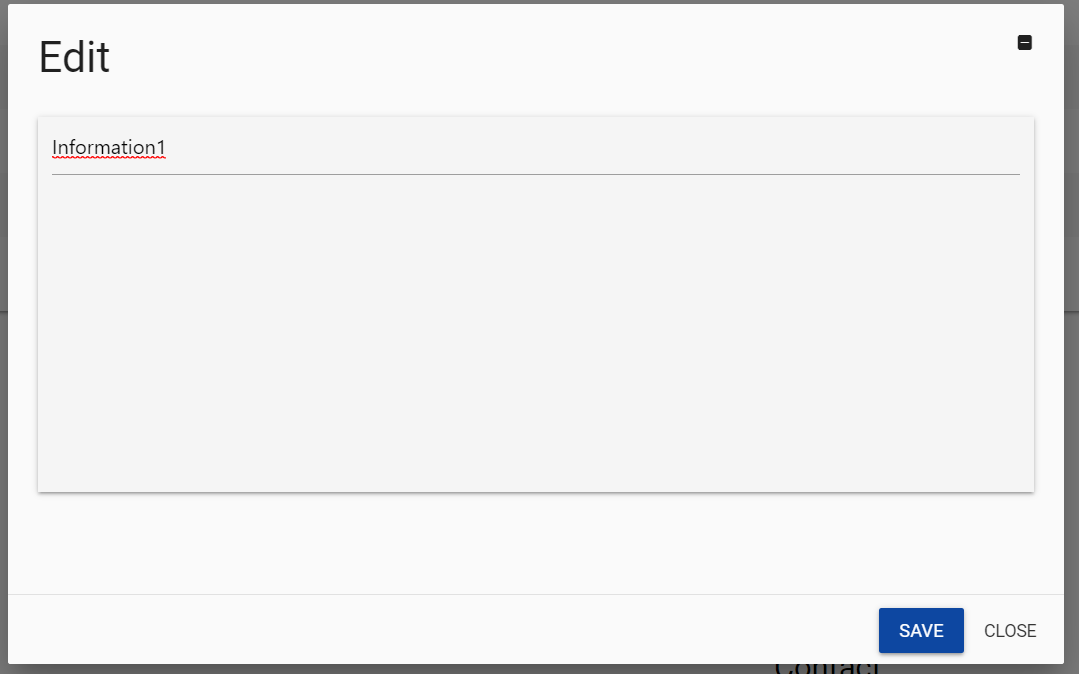
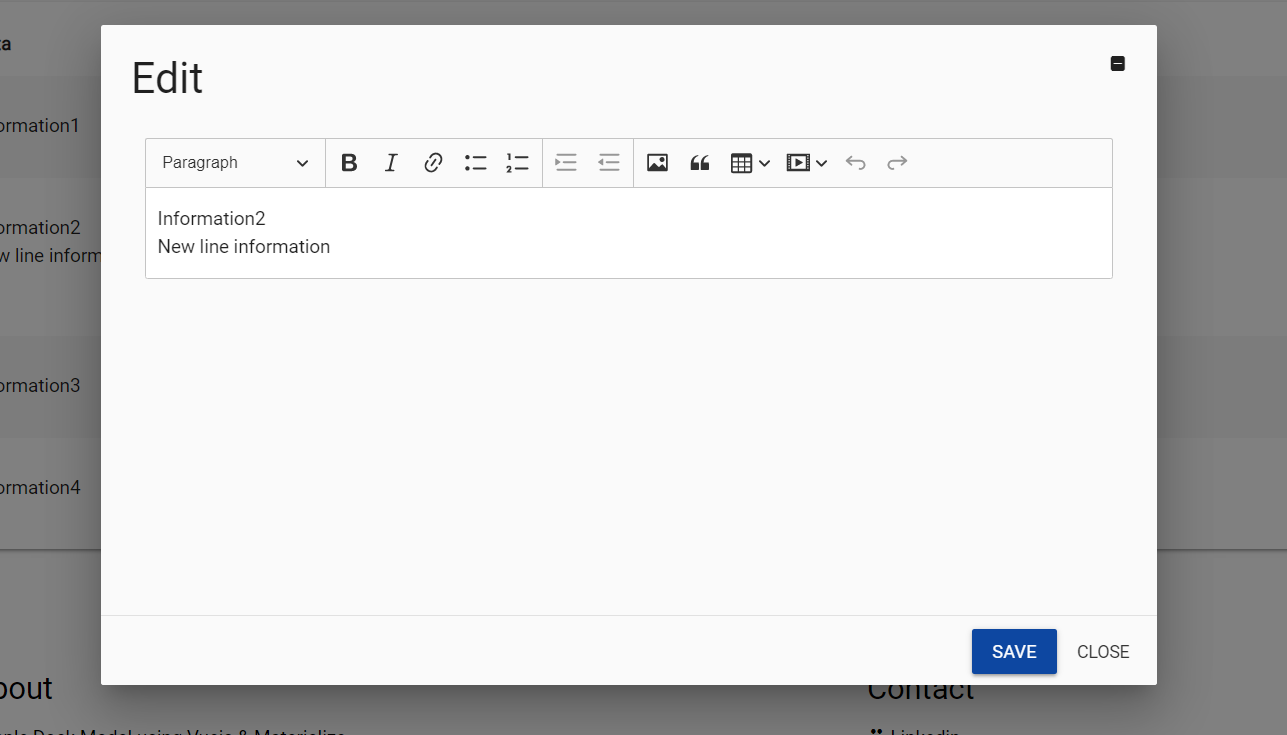
changed screenshot

diff --git a/vue-materialize-dock-modal/src/components/DockModal.vue b/vue-materialize-dock-modal/src/components/DockModal.vue
@@ -8,20 +8,7 @@
                     <i class="material-icons right waves-effect waves-green" @click="edit(info.id)">launch</i>
                 </span>
             </a>            
-        </transition-group>       
-        <transition name="fade">            
-            <div :key="-1" class="right" v-if="remainingDockedInfo.length>0">                      
-                <a class='dropdown-trigger btn grey darken-3 yellow-text' data-target='dropdown1'>
-                    More
-                    <i class="material-icons right">arrow_drop_up</i>
-                </a>                    
-                <ul id='dropdown1' class='dropdown-content'>
-                    <li v-for="info in remainingDockedInfo" :key="info.id">
-                        <a  @click="edit(info.id)">{{info.data|trim}}</a>
-                    </li>                        
-                </ul>
-            </div>            
-        </transition>
+        </transition-group>               
         <modal></modal>     
     </div>
 </template>
@@ -60,17 +47,7 @@ export default {
                 return val.substring(0,15)
             }
         }
-    },        
-    watch:{        
-        remainingDockedInfo(newVal,oldVal){            
-            if(newVal.length>oldVal.length){                
-                this.$nextTick(()=>{
-                  let elems = document.querySelectorAll('.dropdown-trigger')
-                  let instances = M.Dropdown.init(elems, {})
-                })
-            }
-        }
-    }
+    },            
 }
 </script>
 <style scoped>
@@ -111,11 +88,5 @@ export default {
     100%{
         opacity: 0;
     }
-}
-.dropdown-content{
-    height: 13rem;
-    width:9rem!important;
-    overflow-y:auto;
-    overflow-x: hidden;
 }
 </style>

diff --git a/vue-materialize-dock-modal/src/store/index.js b/vue-materialize-dock-modal/src/store/index.js
@@ -6,7 +6,7 @@ Vue.use(Vuex)
 export default new Vuex.Store({
   state: {
     information:[{id:1,data:'Information1',html:'<p>Information1</p>',edit:false,dock:false,dt:new Date()},
-                {id:2,data:'Information2NewLineInformation',html:'<p>Information2<br/>NewLineInformation</p>',edit:false,dock:false,dt:new Date()},
+                {id:2,data:'Information2New Line Information',html:'<p>Information2<br/>New&nbsp;line&nbsp;information</p>',edit:false,dock:false,dt:new Date()},
               {id:3,data:'Information3',html:'<p>Information3</p>',edit:false,dock:false,dt:new Date()},
               {id:4,data:'Information4',html:'<p>Information4</p>',edit:false,dock:false,dt:new Date()},              
               ],

diff --git a/vue-materialize-dock-modal/src/components/Modal.vue b/vue-materialize-dock-modal/src/components/Modal.vue
@@ -41,8 +41,7 @@ export default {
     methods:{
         ...mapActions(['dockInfo','removeDock','removeEdit']),
          save(){
-            this.modalDt=this.$refs.modalDtEl.innerText
-            console.log(this.modalDt)
+            this.modalDt=this.$refs.modalDtEl.innerText            
             this.$store.dispatch('saveInfo',{id:this.openedId,data:this.modalDt,html:this.modalHtml})
         },
         openModal(){
